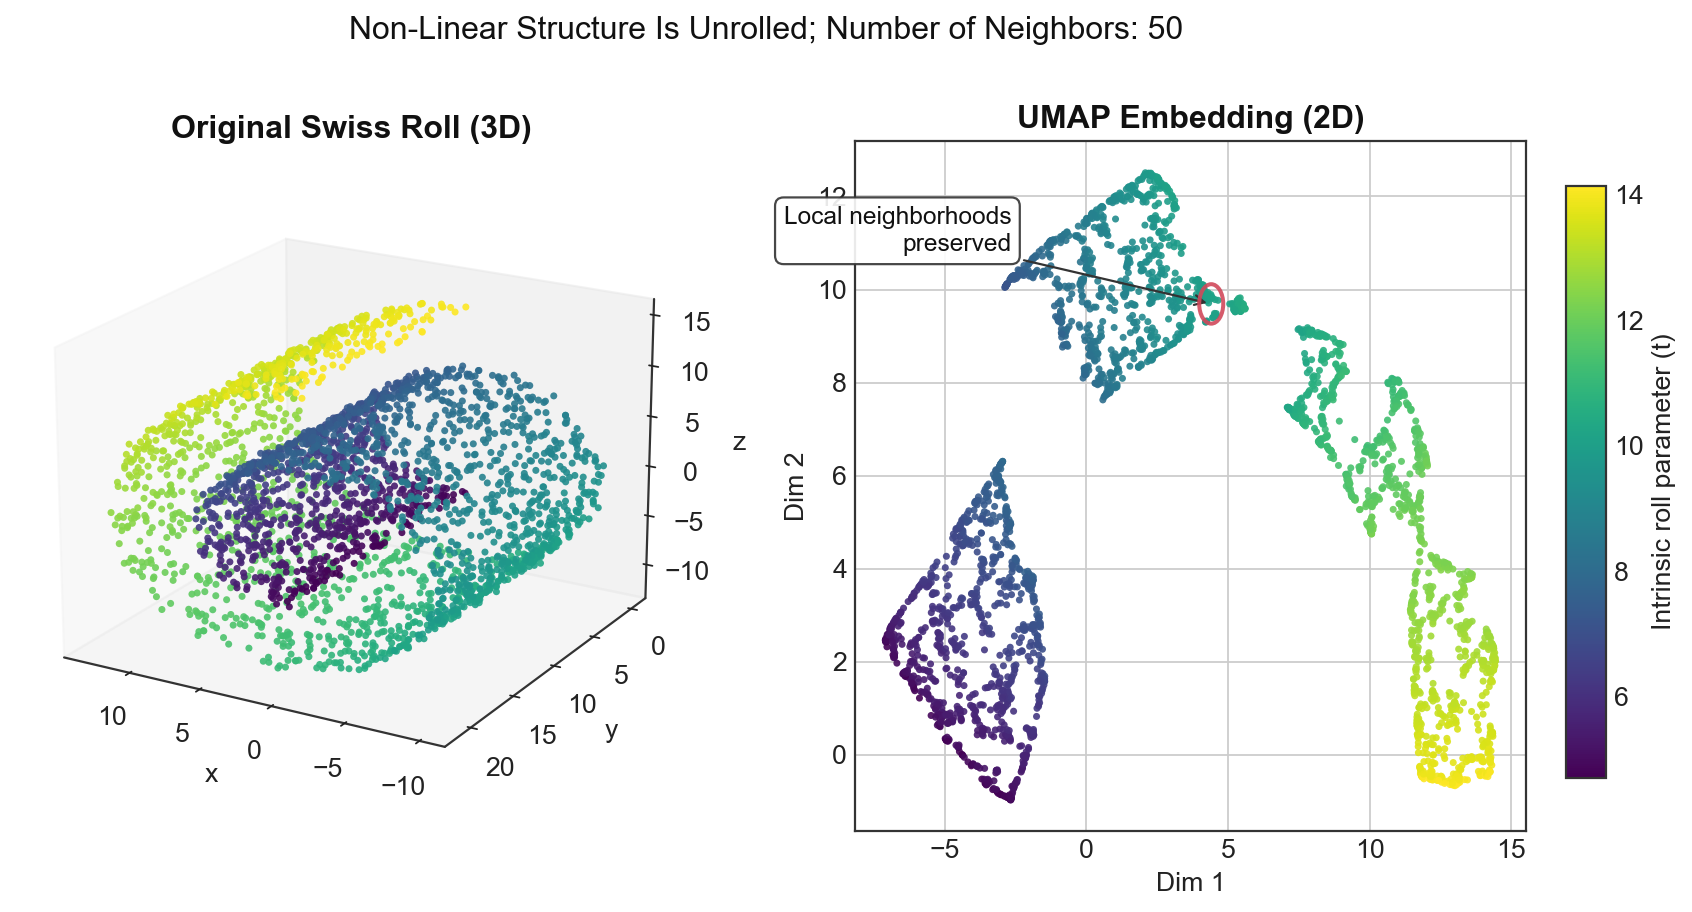
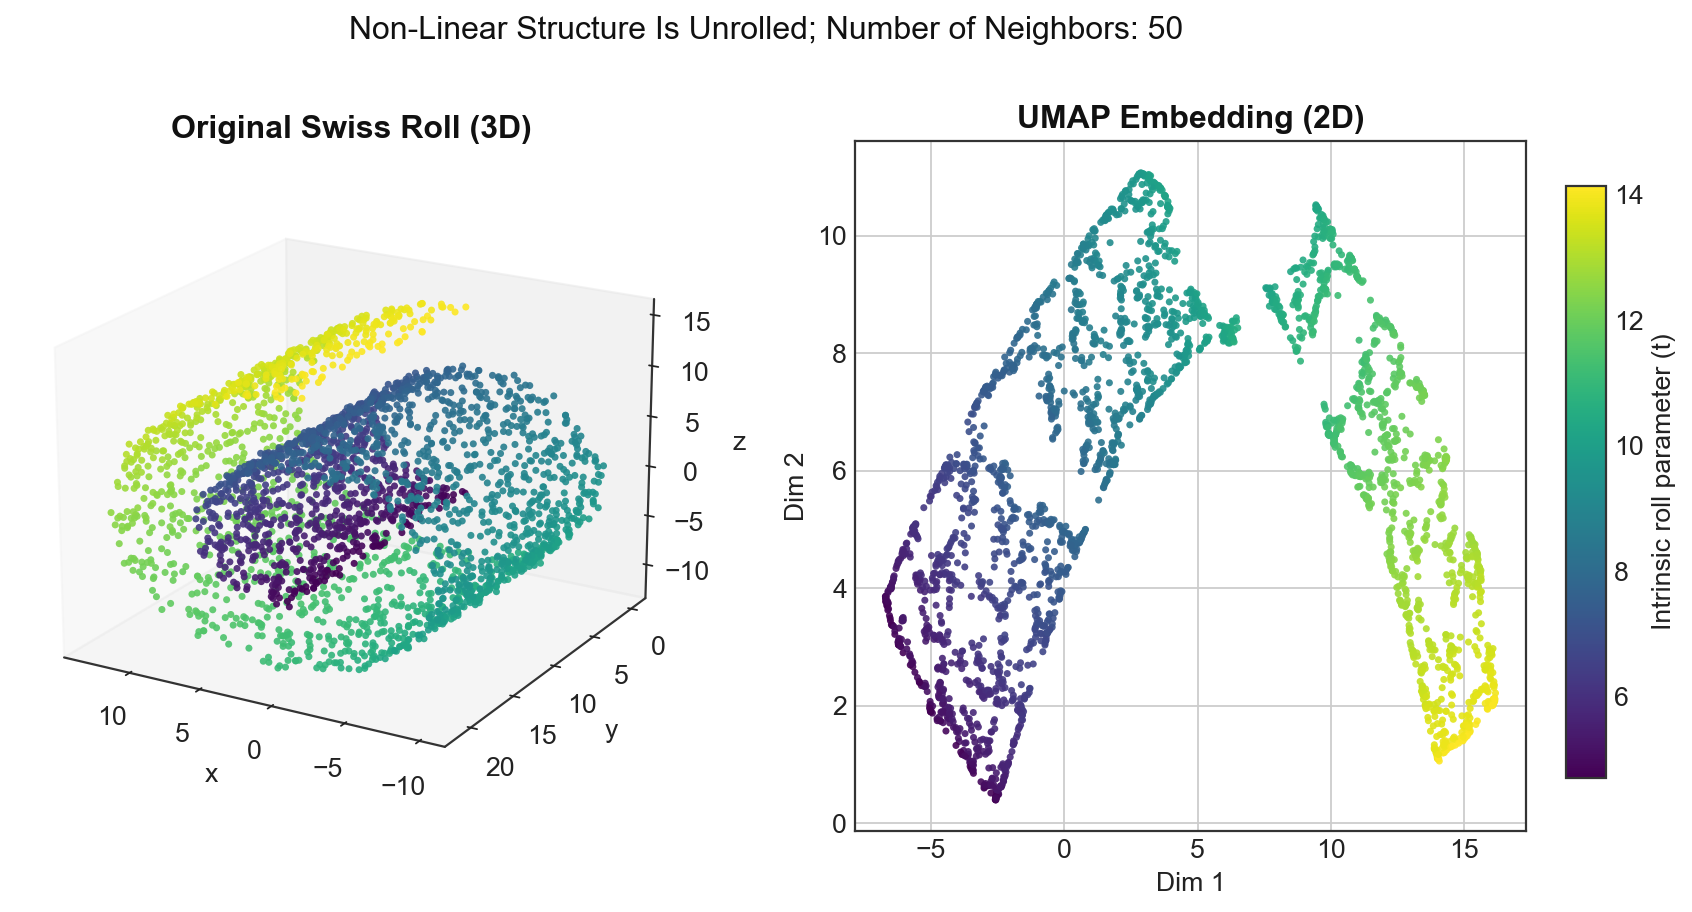
small change

diff --git a/umap-presentation/umap_swiss_roll.py b/umap-presentation/umap_swiss_roll.py
@@ -94,7 +94,7 @@ def plot_umap_on_swiss_roll(
         metric=metric,
         n_epochs=n_epochs,
         init="spectral",
-        random_state=seed,
+        # random_state=seed,
     )
     x_umap = umap.fit_transform(x)
 
@@ -132,27 +132,27 @@ def plot_umap_on_swiss_roll(
         pts = x_umap[cluster]
         center = pts.mean(axis=0)
         radius = np.max(np.linalg.norm(pts - center, axis=1)) * 1.15
-        ax_2d.add_patch(
-            Circle(
-                center,
-                radius,
-                edgecolor="#d1495b",
-                facecolor="none",
-                linewidth=1.8,
-                alpha=0.9,
-                zorder=5,
-            ),
-        )
-        ax_2d.annotate(
-            "Local neighborhoods\npreserved",
-            xy=(center[0], center[1]),
-            xytext=(-90, 24),
-            textcoords="offset points",
-            ha="right",
-            arrowprops={"arrowstyle": "->", "color": "#333333"},
-            fontsize=11,
-            bbox={"boxstyle": "round,pad=0.35", "fc": "white", "ec": "#333333", "alpha": 0.9},
-        )
+        # ax_2d.add_patch(
+        #     Circle(
+        #         center,
+        #         radius,
+        #         edgecolor="#d1495b",
+        #         facecolor="none",
+        #         linewidth=1.8,
+        #         alpha=0.9,
+        #         zorder=5,
+        #     ),
+        # )
+        # ax_2d.annotate(
+        #     "Local neighborhoods\npreserved",
+        #     xy=(center[0], center[1]),
+        #     xytext=(-90, 24),
+        #     textcoords="offset points",
+        #     ha="right",
+        #     arrowprops={"arrowstyle": "->", "color": "#333333"},
+        #     fontsize=11,
+        #     bbox={"boxstyle": "round,pad=0.35", "fc": "white", "ec": "#333333", "alpha": 0.9},
+        # )
 
     fig.subplots_adjust(right=0.88, wspace=0.25)
     cax = fig.add_axes([0.9, 0.17, 0.02, 0.66])

diff --git a/umap-presentation/tsne_swiss_roll.py b/umap-presentation/tsne_swiss_roll.py
@@ -131,26 +131,26 @@ def plot_tsne_on_swiss_roll(
         pts = x_tsne[cluster]
         center = pts.mean(axis=0)
         radius = np.max(np.linalg.norm(pts - center, axis=1)) * 1.15
-        ax_2d.add_patch(
-            Circle(
-                center,
-                radius,
-                edgecolor="#d1495b",
-                facecolor="none",
-                linewidth=1.8,
-                alpha=0.9,
-                zorder=5,
-            ),
-        )
-        ax_2d.annotate(
-            "Local neighborhoods\npreserved",
-            xy=(center[0], center[1]),
-            xytext=(24, 24),
-            textcoords="offset points",
-            arrowprops={"arrowstyle": "->", "color": "#333333"},
-            fontsize=11,
-            bbox={"boxstyle": "round,pad=0.35", "fc": "white", "ec": "#333333", "alpha": 0.9},
-        )
+        # ax_2d.add_patch(
+        #     Circle(
+        #         center,
+        #         radius,
+        #         edgecolor="#d1495b",
+        #         facecolor="none",
+        #         linewidth=1.8,
+        #         alpha=0.9,
+        #         zorder=5,
+        #     ),
+        # )
+        # ax_2d.annotate(
+        #     "Local neighborhoods\npreserved",
+        #     xy=(center[0], center[1]),
+        #     xytext=(24, 24),
+        #     textcoords="offset points",
+        #     arrowprops={"arrowstyle": "->", "color": "#333333"},
+        #     fontsize=11,
+        #     bbox={"boxstyle": "round,pad=0.35", "fc": "white", "ec": "#333333", "alpha": 0.9},
+        # )
 
     fig.subplots_adjust(right=0.88, wspace=0.25)
     cax = fig.add_axes([0.9, 0.17, 0.02, 0.66])
